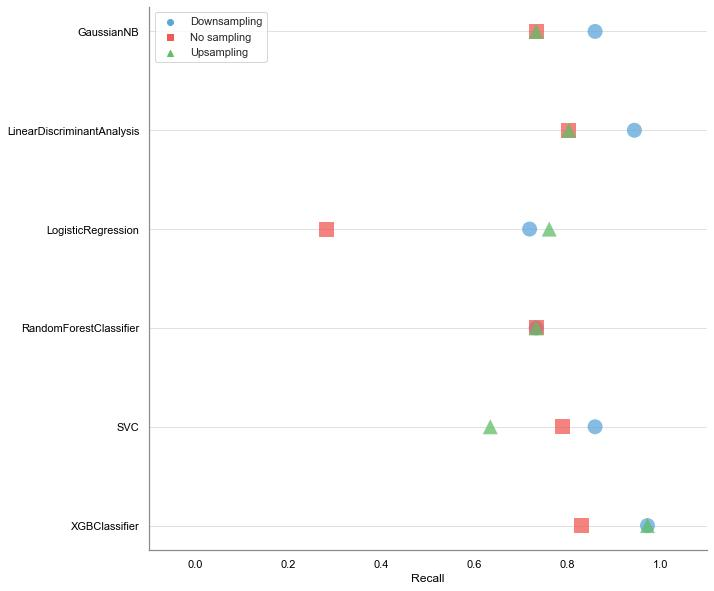
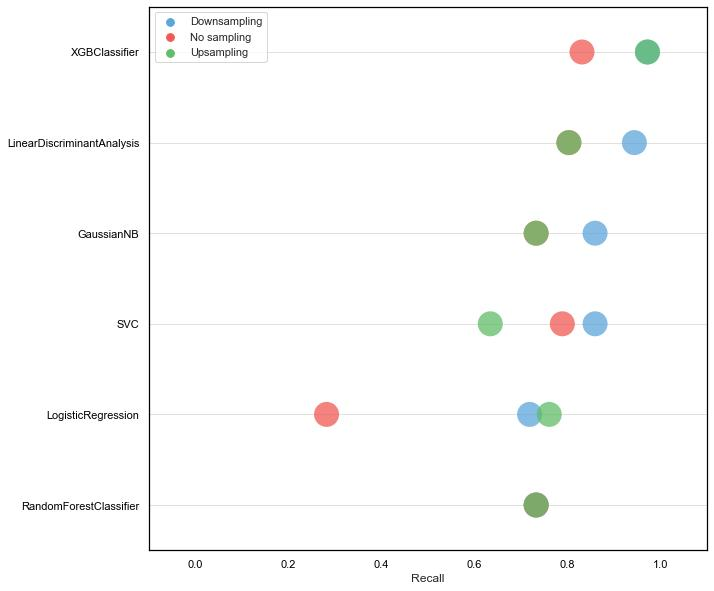
plots

diff --git a/code/model_comparison.py b/code/model_comparison.py
@@ -12,8 +12,8 @@ dark_bright = ['#000000', '#265dab', '#df5c24', '#059749', '#e5126d', '#9d732a',
 grid = ['#e0e0e0']
 
 #plot parameters
-plt.rcParams["axes.spines.right"] = False
-plt.rcParams["axes.spines.top"] = False
+plt.rcParams["axes.spines.right"] = True
+plt.rcParams["axes.spines.top"] = True
 
 df_no_sampling = pd.read_csv('../output/modeling/no_sampling/df_scores.csv')
 df_upsampling = pd.read_csv('../output/modeling/upsampling/df_scores.csv')
@@ -29,14 +29,17 @@ for idx, val in enumerate(df.columns[2:]):
     df = df.sort_values(by=['Model', 'Sampling',val], ascending=True)
     
     plt.figure(figsize=(10, 10))
-    ax = sns.scatterplot(data = df, y = 'Model', x = val, hue = 'Sampling', style='Sampling', s=225, linewidth=0, alpha=0.75, markers=('o','s','^'), palette=[medium[1],medium[8],medium[3]])
+    # ax = sns.scatterplot(data = df, y = 'Model', x = val, hue = 'Sampling', style='Sampling', s=225, linewidth=0, alpha=0.75, markers=('o','s','^'), palette=[medium[1],medium[8],medium[3]])
+    ax = sns.stripplot(y = df['Model'], x = df[val], hue = df['Sampling'], s=25, jitter=False, order=sorted_index_descent, alpha=0.75, palette=[medium[1],medium[8],medium[3]])
     ax.set_ylabel('')
     ax.set_xlabel(val)
     ax.set_xlim([-.1,1.1])
-    ax.spines["bottom"].set_color(light[0])
-    ax.spines["left"].set_color(light[0])
-    ax.xaxis.label.set_color(dark_bright[0])
-    ax.yaxis.label.set_color(dark_bright[0])
+    ax.spines["bottom"].set_color(dark_bright[0])
+    ax.spines["left"].set_color(dark_bright[0])
+    ax.spines["top"].set_color(dark_bright[0])
+    ax.spines["right"].set_color(dark_bright[0])
+    # ax.xaxis.label.set_color(dark_bright[0])
+    # ax.yaxis.label.set_color(dark_bright[0])
     ax.title.set_color(dark_bright[0])
     ax.tick_params(axis='x', colors = light[0], labelcolor=dark_bright[0])
     ax.tick_params(axis='y', colors = light[0], labelcolor=dark_bright[0])
